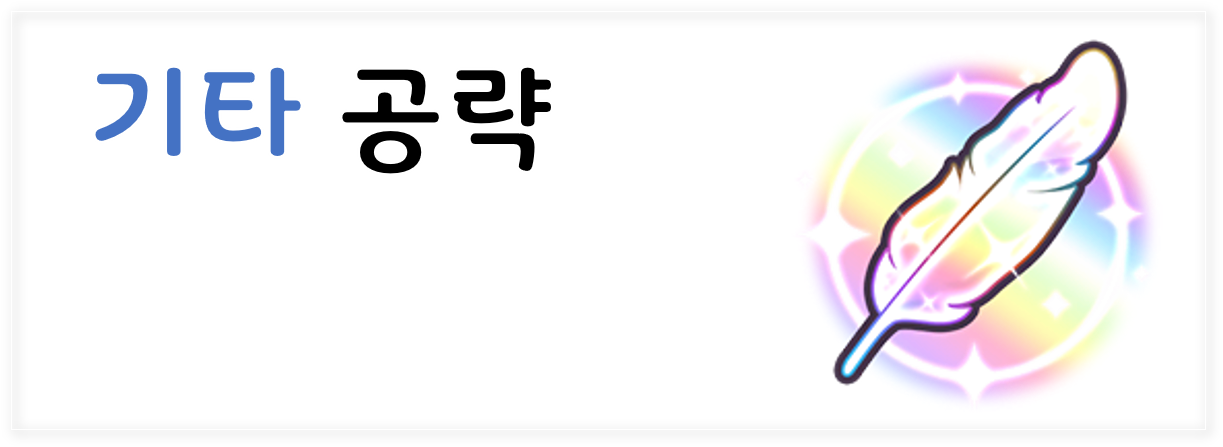
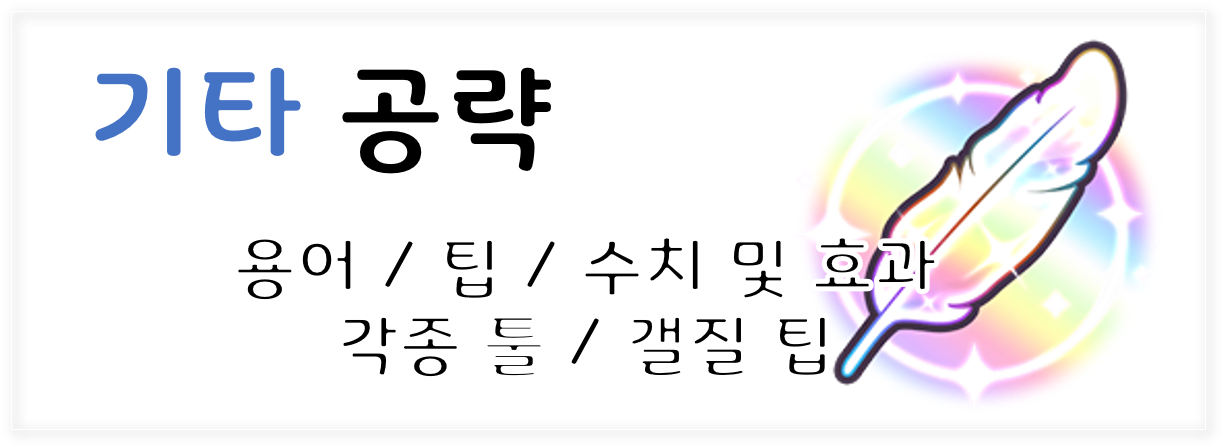
add guide post (with image), update others_1 image, update guide_text mistakes

diff --git a/posts/guide.html b/posts/guide.html
@@ -1,5 +1,6 @@
 <p>
     <img src="https://raw.githubusercontent.com/login-dhcp/shinycolors_guide/master/src/hazuki.png"><br>
+    <img src="https://raw.githubusercontent.com/login-dhcp/shinycolors_guide/master/src/shinycolors_gall_banner.png"><br>
 </p>
 <p>
     <span style="color: rgb(0, 0, 0); font-size: 16pt;">
@@ -11,6 +12,7 @@
 <p style="font-size: 14px;">
     <hr style="border: solid 1px; width: 500px;" align="left">
     <a href="https://gall.dcinside.com/mgallery/board/view/?id=shinycolors&no=31868" target="_blank">
+        <img src="https://raw.githubusercontent.com/login-dhcp/shinycolors_guide/master/src/shinycolors_gall_banner_2.png"><br>
         <span style="color: rgb(0, 0, 255); font-weight: bold; text-decoration: underline;">
             [일반] 갤질 수칙<br>
         </span>
@@ -117,6 +119,10 @@
             <span style="font-size: 18pt; color: rgb(255, 228, 0);">n</span>
         </a>
     </b>
+    <br>
+    <a href="https://shinycolors.enza.fun/" target="_blank">
+        <img src="https://raw.githubusercontent.com/login-dhcp/shinycolors_guide/master/src/hazuki_game_start.png"><br>
+    </a>
 </p>
 <p style="font-size: 14px;">
     <span style="color: rgb(0, 0, 0);">
@@ -139,122 +145,30 @@
     <span style="color: rgb(0, 0, 0);">
         ※일부 자료들은 지속적으로 업데이트되고 있습니다.<br>
     </span>
-    <hr style="border: dotted 1px; width: 200px;" align="left">
-    <span style="color: rgb(90, 127, 68); font-weight: bold;">
-        입문자용 가이드<br>
-    </span>
-    &nbsp;&nbsp;
     <a href="https://gall.dcinside.com/mgallery/board/view/?id=shinycolors&no=68130" target="_blank">
-        <span style="color: rgb(0, 0, 0); text-decoration: underline;">
-            [일반] (링크용) 입문자용 가이드<br>
-        </span>
-    </a>
-    <br>
-    <span style="color: rgb(90, 127, 68); font-weight: bold;">
-        과금 가이드<br>
-    </span>
-    &nbsp;&nbsp;
+        <img src="https://raw.githubusercontent.com/login-dhcp/shinycolors_guide/master/src/tutorial.png" height="100px" alt="[일반] (링크용) 입문자용 가이드"></a>
     <a href="https://gall.dcinside.com/mgallery/board/view/?id=shinycolors&no=134894" target="_blank">
-        <span style="color: rgb(0, 0, 0); text-decoration: underline;">
-            [일반] (링크용) 과금 가이드<br>
-        </span>
-    </a>
-    <hr style="border: dotted 1px; width: 200px;" align="left">
-    <span style="color: rgb(90, 127, 68); font-weight: bold;">
-        프로듀스의 기초<br>
-    </span>
-    &nbsp;&nbsp;
+        <img src="https://raw.githubusercontent.com/login-dhcp/shinycolors_guide/master/src/purchase.png" height="100px" alt="[일반] (링크용) 과금 가이드"><br></a>
     <a href="https://gall.dcinside.com/mgallery/board/view/?id=shinycolors&no=136130" target="_blank">
-        <span style="color: rgb(0, 0, 0); text-decoration: underline;">
-            [일반] (링크용) 프로듀스의 기초<br>
-        </span>
-    </a>
-    <br>
-    <span style="color: rgb(90, 127, 68); font-weight: bold;">
-        W.I.N.G<br>
-    </span>
-    &nbsp;&nbsp;
+        <img src="https://raw.githubusercontent.com/login-dhcp/shinycolors_guide/master/src/produce.png" height="100px" alt="[일반] (링크용) 프로듀스의 기초"></a>
     <a href="https://gall.dcinside.com/mgallery/board/view/?id=shinycolors&no=136137" target="_blank">
-        <span style="color: rgb(0, 0, 0); text-decoration: underline;">
-            [일반] (링크용) 프로듀스 - 윙<br>
-        </span>
-    </a>
-    <br>
-    <span style="color: rgb(90, 127, 68); font-weight: bold;">
-        감사제<br>
-    </span>
-    &nbsp;&nbsp;
+        <img src="https://raw.githubusercontent.com/login-dhcp/shinycolors_guide/master/src/wing.png" height="100px" alt="[일반] (링크용) 프로듀스 - 윙"><br></a>
     <a href="https://gall.dcinside.com/mgallery/board/view/?id=shinycolors&no=135885" target="_blank">
-        <span style="color: rgb(0, 0, 0); text-decoration: underline;">
-            [일반] (링크용) 프로듀스 - 팬 감사제<br>
-        </span>
-    </a>
-    <br>
-    <span style="color: rgb(90, 127, 68); font-weight: bold;">
-        G.R.A.D<br>
-    </span>
-    &nbsp;&nbsp;
+        <img src="https://raw.githubusercontent.com/login-dhcp/shinycolors_guide/master/src/fan_festival.png" height="100px" alt="[일반] (링크용) 프로듀스 - 팬 감사제"></a>
     <a href="https://gall.dcinside.com/mgallery/board/view/?id=shinycolors&no=205534" target="_blank">
-        <span style="color: rgb(0, 0, 0); text-decoration: underline;">
-            [일반] (링크용) 프로듀스 - G.R.A.D<br>
-        </span>
-    </a>
-    <br>
-    <span style="color: rgb(90, 127, 68); font-weight: bold;">
-        랜딩 포인트<br>
-    </span>
-    &nbsp;&nbsp;
+        <img src="https://raw.githubusercontent.com/login-dhcp/shinycolors_guide/master/src/grad.png" height="100px" alt="[일반] (링크용) 프로듀스 - G.R.A.D"><br></a>
     <a href="https://gall.dcinside.com/mgallery/board/view/?id=shinycolors&no=701169" target="_blank">
-        <span style="color: rgb(0, 0, 0); text-decoration: underline;">
-            [일반] (링크용) 프로듀스 - 랜딩 포인트<br>
-        </span>
-    </a>
-    <br>
-    <span style="color: rgb(90, 127, 68); font-weight: bold;">
-        페스<br>
-    </span>
-    &nbsp;&nbsp;
+        <img src="https://raw.githubusercontent.com/login-dhcp/shinycolors_guide/master/src/landing_point.png" height="100px" alt="[일반] (링크용) 프로듀스 - 랜딩 포인트"></a>
     <a href="https://gall.dcinside.com/mgallery/board/view/?id=shinycolors&no=135892" target="_blank">
-        <span style="color: rgb(0, 0, 0); text-decoration: underline;">
-            [일반] (링크용) 페스<br>
-        </span>
-    </a>
-    <br>
-    <span style="color: rgb(90, 127, 68); font-weight: bold;">
-        이벤트<br>
-    </span>
-    &nbsp;&nbsp;
+        <img src="https://raw.githubusercontent.com/login-dhcp/shinycolors_guide/master/src/grade_fes.png" height="100px" alt="[일반] (링크용) 페스"><br></a>
     <a href="https://gall.dcinside.com/mgallery/board/view/?id=shinycolors&no=135231" target="_blank">
-        <span style="color: rgb(0, 0, 0); text-decoration: underline;">
-            [일반] (링크용) 이벤트별 공략<br>
-        </span>
-    </a>
-    <br>
-    <span style="color: rgb(90, 127, 68); font-weight: bold;">
-        기타<br>
-    </span>
-    &nbsp;&nbsp;
+        <img src="https://raw.githubusercontent.com/login-dhcp/shinycolors_guide/master/src/events.png" height="100px" alt="[일반] (링크용) 이벤트별 공략"></a>
     <a href="https://gall.dcinside.com/mgallery/board/view/?id=shinycolors&no=135877" target="_blank">
-        <span style="color: rgb(0, 0, 0); text-decoration: underline;">
-            [일반] (링크용) 기타 공략<br>
-        </span>
-    </a>
-    &nbsp;&nbsp;
+        <img src="https://raw.githubusercontent.com/login-dhcp/shinycolors_guide/master/src/others_1.png" height="100px" alt="[일반] (링크용) 기타 공략"><br></a>
     <a href="https://gall.dcinside.com/mgallery/board/view/?id=shinycolors&no=135217" target="_blank">
-        <span style="color: rgb(0, 0, 0); text-decoration: underline;">
-            [일반] (링크용) 기타 정보 모음<br>
-        </span>
-    </a>
-    <hr style="border: dotted 1px; width: 200px;" align="left">
-    <span style="color: rgb(90, 127, 68); font-weight: bold;">
-        완장 호출<br>
-    </span>
-    &nbsp;&nbsp;
+        <img src="https://raw.githubusercontent.com/login-dhcp/shinycolors_guide/master/src/others_2.png" height="100px" alt="[일반] (링크용) 기타 정보 모음"></a>
     <a href="https://gall.dcinside.com/mgallery/board/view/?id=shinycolors&no=376145" target="_blank">
-        <span style="color: rgb(0, 0, 0); text-decoration: underline;">
-            [일반] # 완장 호출, 문의 및 신고 #<br>
-        </span>
-    </a>
+        <img src="https://raw.githubusercontent.com/login-dhcp/shinycolors_guide/master/src/managers.png" height="100px" alt="[일반] # 완장 호출, 문의 및 신고 #"></a>
 </p><br>
 <p style="font-size: 14px;">
     <hr style="border: solid 1px; width: 500px;" align="left">
